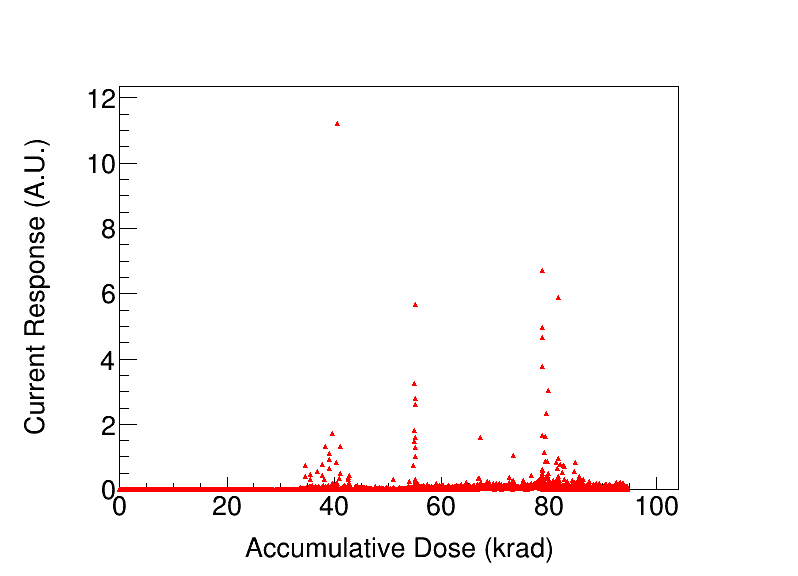
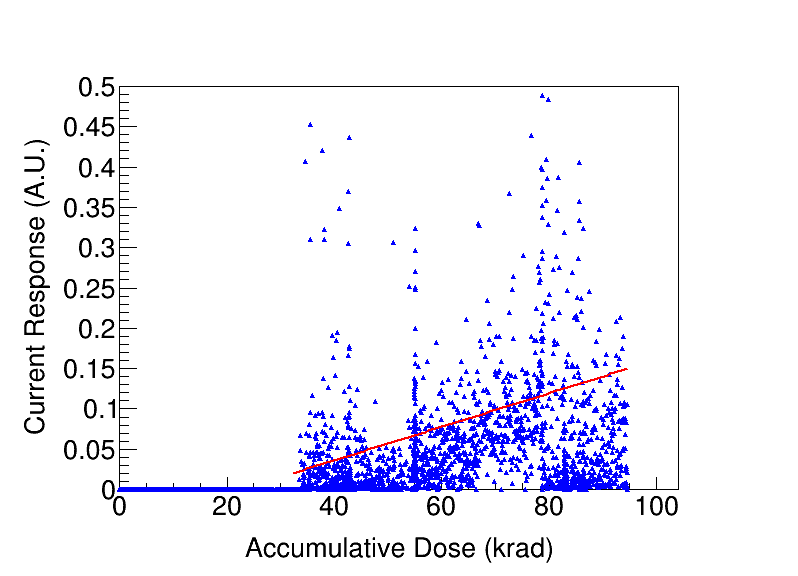
Update Data from the last day of shot

diff --git a/AstranisDataAnalysis/Colsolidated/analysis.C b/AstranisDataAnalysis/Colsolidated/analysis.C
@@ -65,6 +65,7 @@ std::vector<double> CalculateCumulativeDose(const std::vector<TUPLE_T> &data) {
         sum += instantDose; // krad
         cumulativeDose.push_back(sum);
     }
+    std::cout << "Total dose: " << sum << " krad" << std::endl;
     return cumulativeDose;
 }
 
@@ -208,6 +209,7 @@ void analysis_currentResponse_vs_totalDose(const std::vector<TUPLE_T> &shotData)
     c->SetRightMargin(0.15);
     c->SetBottomMargin(0.15);
     c->SetTopMargin(0.15);
+    auto fit = new TF1("fit", "[0] + [1]*x", 32, 95);
     auto gr_CollectorResponse = new TGraph(cumulativeDose.size(), cumulativeDose.data(), collectorResponse.data());
     gr_CollectorResponse->SetTitle("");
     gr_CollectorResponse->GetXaxis()->SetTitle("Accumulative Dose (krad)");
@@ -220,14 +222,18 @@ void analysis_currentResponse_vs_totalDose(const std::vector<TUPLE_T> &shotData)
     gr_CollectorResponse->GetYaxis()->SetLabelSize(0.05);
     gr_CollectorResponse->GetXaxis()->SetTitleOffset(1.3);
     gr_CollectorResponse->GetYaxis()->SetTitleOffset(1.3);
+    gr_CollectorResponse->GetYaxis()->SetRangeUser(0, 0.5);
     gr_CollectorResponse->SetMarkerStyle(22);
     gr_CollectorResponse->SetMarkerSize(0.8);
-    gr_CollectorResponse->SetMarkerColor(kRed);
+    gr_CollectorResponse->SetMarkerColor(kBlue);
     gr_CollectorResponse->Draw("AP");
+    gr_CollectorResponse->Fit(fit, "R");
     c->SaveAs("CurrentReponse_1D.png");
 
     c->SetLogy();
+    
     gr_CollectorResponse->GetYaxis()->SetRangeUser(1E-8, 1E3);
+    gr_CollectorResponse->Fit(fit, "R");
     c->SaveAs("CurrentReponse_1D_log.png");
 
     delete gr_CollectorResponse;
@@ -282,6 +288,7 @@ void analysis_current_vs_instantDose_vs_totalDose(const std::vector<TUPLE_T> &sh
         h2d_Voltage->Fill(cumulativeDose[i], instantDose[i], collectorMaxVoltage[i]);
         h2d_N->Fill(cumulativeDose[i], instantDose[i], 1);
     }
+    
 
     gStyle->SetOptStat(0);
     auto c = new TCanvas("c", "c", 800, 600);
